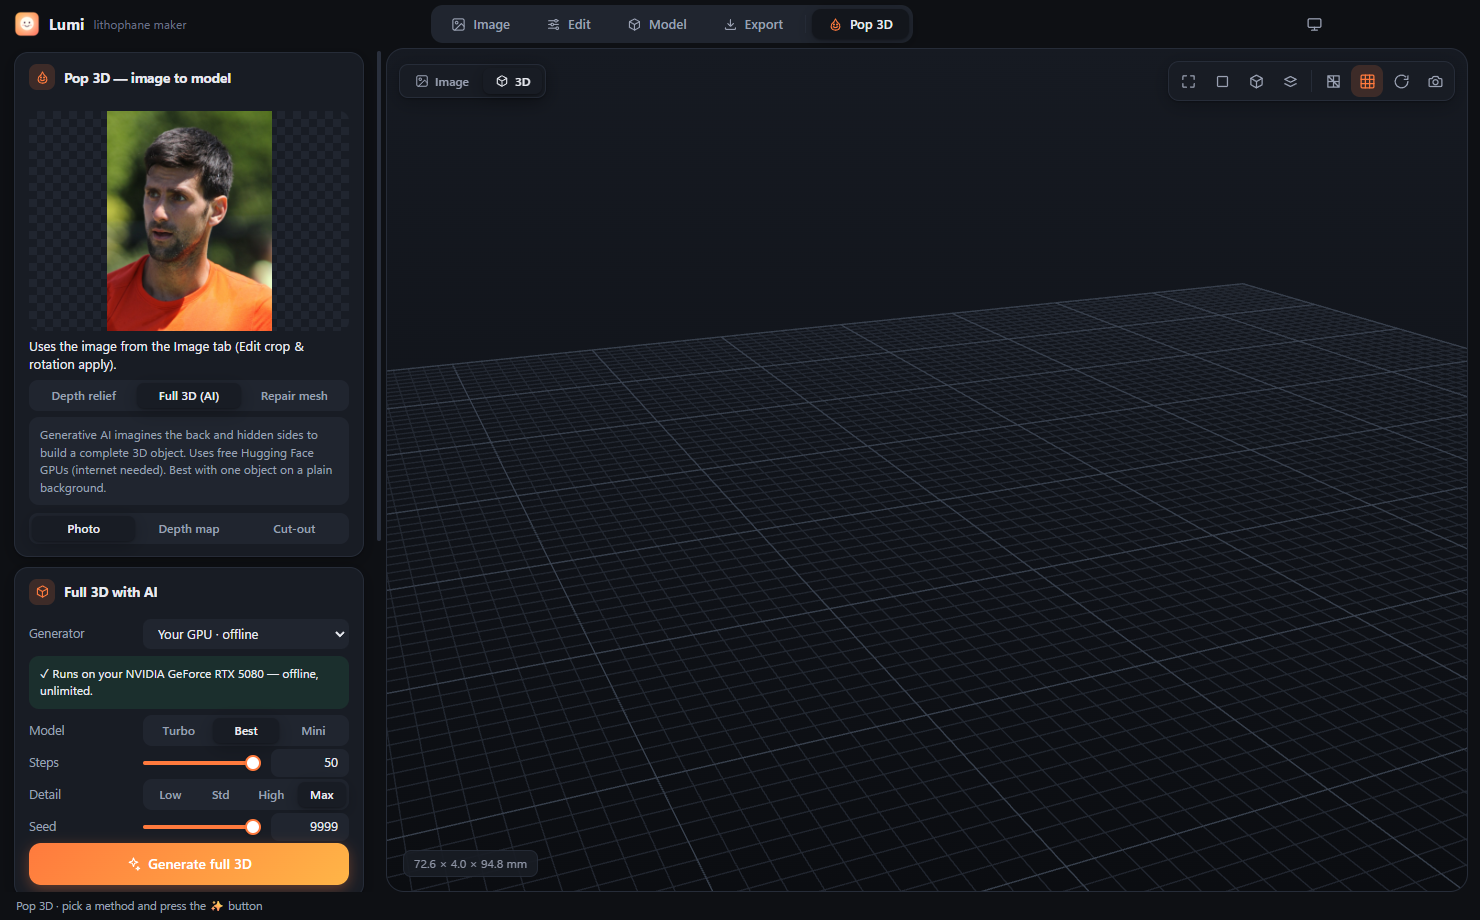
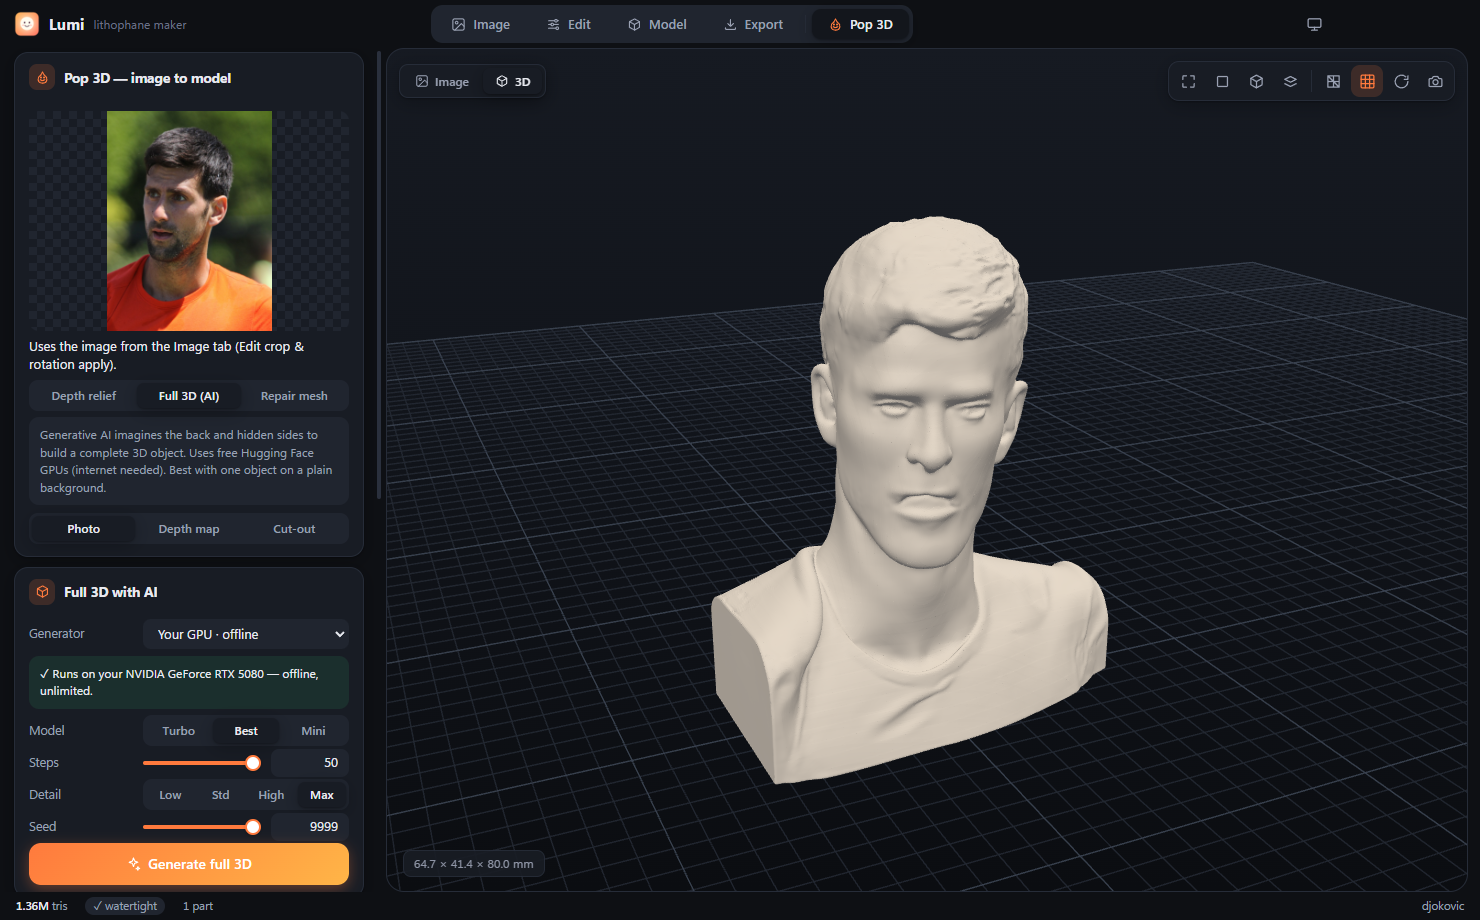
Add Windows downloads (v1.0.0 release), tabbed screenshot showcase, real Pop 3D screenshot

diff --git a/site/index.html b/site/index.html
@@ -49,6 +49,7 @@
         <a href="#make">Make one</a>
         <a href="#features">Features</a>
         <a href="#full3d">Full 3D</a>
+        <a href="#download">Download</a>
         <a href="#license">License</a>
       </div>
       <div class="nav-actions">
@@ -57,7 +58,7 @@
           <svg class="i-light" viewBox="0 0 24 24"><circle cx="12" cy="12" r="4.2"/><path d="M12 2.5v2.2M12 19.3v2.2M2.5 12h2.2M19.3 12h2.2M5.3 5.3l1.6 1.6M17.1 17.1l1.6 1.6M5.3 18.7l1.6-1.6M17.1 6.9l1.6-1.6"/></svg>
           <svg class="i-dark" viewBox="0 0 24 24"><path d="M20 14.5A8.5 8.5 0 019.5 4a8.5 8.5 0 1010.5 10.5z"/></svg>
         </button>
-        <a class="pill pill-sm" href="#make">Try it free</a>
+        <a class="pill pill-sm" href="#download">Download</a>
       </div>
     </div>
   </nav>
@@ -72,6 +73,24 @@
       <div class="hero-cta">
         <a class="pill" href="#make">Make a lithophane</a>
         <a class="more" href="#full3d">See full 3D <span aria-hidden="true">›</span></a>
+      </div>
+
+      <div class="dl" id="download">
+        <div class="dl-card">
+          <div class="dl-info">
+            <img src="assets/icon.png" alt="" width="44" height="44">
+            <div><b>Lumi for Windows</b><span>v1.0.0 · Windows 10 and 11, 64-bit · includes Pop 3D</span></div>
+          </div>
+          <div class="dl-btns">
+            <a class="pill dl-btn" href="https://github.com/chahatdeep/Lumi/releases/download/v1.0.0/Lumi-Setup-1.0.0.exe" data-asset="Lumi-Setup-1.0.0.exe">
+              <svg viewBox="0 0 24 24" aria-hidden="true"><path d="M12 4v11m0 0l-4.5-4.5M12 15l4.5-4.5M5 19.5h14"/></svg>Installer <small>.exe</small>
+            </a>
+            <a class="pill pill-ghost dl-btn" href="https://github.com/chahatdeep/Lumi/releases/download/v1.0.0/Lumi-1.0.0-portable.exe" data-asset="Lumi-1.0.0-portable.exe">
+              <svg viewBox="0 0 24 24" aria-hidden="true"><path d="M12 4v11m0 0l-4.5-4.5M12 15l4.5-4.5M5 19.5h14"/></svg>Portable <small>.exe</small>
+            </a>
+          </div>
+        </div>
+        <p class="fine dl-note">About 96 MB each. The portable version runs without installing. The app isn't code-signed yet, so if Windows SmartScreen appears, choose <b>More info → Run anyway</b>. <a href="https://github.com/chahatdeep/Lumi/releases/latest" target="_blank" rel="noopener">All releases</a></p>
       </div>
 
       <figure class="stage" id="litho">
@@ -213,18 +232,30 @@
         <h2 class="headline">Lumi for Windows.</h2>
         <p class="lede">Everything above, plus Pop 3D, depth reliefs and mesh repair, in a native desktop app.</p>
       </div>
-      <div class="rail" tabindex="0" aria-label="Screenshots">
-        <button class="shot" data-src="assets/screenshot-main.png"><img src="assets/screenshot-main.png" alt="Lumi main window with a lithophane preview" loading="lazy"><span>Image &amp; templates</span></button>
-        <button class="shot" data-src="assets/screenshot-model.png"><img src="assets/screenshot-model.png" alt="Lumi Model tab" loading="lazy"><span>Shape, thickness &amp; frame</span></button>
-        <button class="shot" data-src="assets/screenshot-export.png"><img src="assets/screenshot-export.png" alt="Lumi Export tab" loading="lazy"><span>Slicer-friendly export</span></button>
-        <button class="shot" data-src="assets/screenshot-pop.png"><img src="assets/screenshot-pop.png" alt="Lumi Pop 3D tab" loading="lazy"><span>Pop 3D</span></button>
+      <div class="wrap showcase">
+        <div class="seg" role="tablist" aria-label="Screenshots">
+          <button type="button" role="tab" aria-selected="true" data-i="0">Image</button>
+          <button type="button" role="tab" aria-selected="false" data-i="1">Model</button>
+          <button type="button" role="tab" aria-selected="false" data-i="2">Export</button>
+          <button type="button" role="tab" aria-selected="false" data-i="3">Pop 3D</button>
+        </div>
+        <figure class="show-frame" id="showFrame">
+          <img class="on" src="assets/screenshot-main.png" alt="Lumi main window with a lithophane preview" data-cap="Load a photo or pick a quick template." loading="lazy" width="1480" height="920">
+          <img class="" src="assets/screenshot-model.png" alt="Lumi Model tab with shape and thickness settings" data-cap="Shape, thickness, outline and frame." loading="lazy" width="1480" height="920">
+          <img class="" src="assets/screenshot-export.png" alt="Lumi Export tab with mesh optimization" data-cap="Optimized, slicer-friendly STL and 3MF." loading="lazy" width="1480" height="920">
+          <img class="" src="assets/screenshot-pop.png" alt="Lumi Pop 3D tab showing a generated 3D bust" data-cap="A full 3D model from one photo, on your GPU." loading="lazy" width="1480" height="920">
+        </figure>
+        <p class="show-cap" id="showCap">Load a photo or pick a quick template.</p>
       </div>
       <div class="wrap">
         <div class="build tile">
           <div>
             <h3>Build and run it.</h3>
             <p>Needs Windows 10 or 11, <a href="https://nodejs.org/" target="_blank" rel="noopener">Node.js 20+</a> and Git. An NVIDIA GPU is optional, for offline Pop 3D. <code>npm run dist</code> creates an installer and a portable <code>.exe</code>.</p>
-            <a class="more" href="https://github.com/chahatdeep/Lumi" target="_blank" rel="noopener">View on GitHub <span aria-hidden="true">›</span></a>
+            <div class="build-links">
+              <a class="pill pill-sm" href="#download">Download the .exe</a>
+              <a class="more" href="https://github.com/chahatdeep/Lumi" target="_blank" rel="noopener">View on GitHub <span aria-hidden="true">›</span></a>
+            </div>
           </div>
           <div class="code">
             <button class="copy" type="button" data-copy>Copy</button>

diff --git a/site/site.css b/site/site.css
@@ -75,6 +75,8 @@ p code { background: var(--bg-alt); padding: 1px 6px; border-radius: 6px; font-s
 .pill:hover { background: var(--pill-hover); text-decoration: none; }
 .pill-sm { min-height: 28px; padding: 0 12px; font-size: 12px; }
 .more { font-size: 17px; font-weight: 500; }
+.pill-ghost { background: transparent; color: var(--link); box-shadow: inset 0 0 0 1px var(--link); }
+.pill-ghost:hover { background: color-mix(in srgb, var(--link) 10%, transparent); }
 .more span { display: inline-block; transition: transform .2s; }
 .more:hover span { transform: translateX(3px); }
 
@@ -106,6 +108,20 @@ h1 { font-size: clamp(48px, 9vw, 96px); line-height: 1.05; font-weight: 700; let
 .hero-sub { font-size: clamp(19px, 2.4vw, 28px); line-height: 1.25; font-weight: 500; color: var(--text); max-width: 760px; margin: 18px auto 0; letter-spacing: -.02em; }
 .hero-cta { display: flex; justify-content: center; align-items: center; flex-wrap: wrap; gap: 14px 28px; margin-top: 30px; }
 
+/* download card */
+.dl { max-width: 760px; margin: 36px auto 0; }
+.dl-card { display: flex; align-items: center; justify-content: space-between; gap: 20px; flex-wrap: wrap; padding: 16px 16px 16px 20px; border-radius: 22px; background: var(--bg-alt); text-align: left; }
+.dl-info { display: flex; align-items: center; gap: 14px; }
+.dl-info img { width: 44px; height: 44px; }
+.dl-info b { display: block; font-size: 17px; font-weight: 600; }
+.dl-info span { display: block; font-size: 13px; color: var(--muted); }
+.dl-btns { display: flex; gap: 10px; flex-wrap: wrap; }
+.dl-btn { gap: 8px; min-height: 40px; padding: 0 18px; font-size: 15px; }
+.dl-btn small { font-size: 12px; opacity: .75; font-weight: 500; }
+.dl-btn svg { width: 17px; height: 17px; fill: none; stroke: currentColor; stroke-width: 2; stroke-linecap: round; stroke-linejoin: round; }
+.dl-note { margin-top: 10px; }
+.build-links { display: flex; align-items: center; gap: 20px; flex-wrap: wrap; margin-top: 18px; }
+.build-links .more { margin-top: 0 !important; }
 .stage { max-width: 1100px; margin: 56px auto 0; }
 .stage-img { position: relative; aspect-ratio: 4 / 3; border-radius: var(--radius); overflow: hidden; background: #201812; box-shadow: var(--shadow); }
 .stage-img img { position: absolute; inset: 0; width: 100%; height: 100%; object-fit: cover; }
@@ -171,13 +187,17 @@ input[type="range"] { flex: 1; accent-color: #ff9f0a; cursor: pointer; }
 .specs b { display: block; font-size: clamp(28px, 3.6vw, 40px); font-weight: 700; letter-spacing: -.03em; }
 .specs span { color: var(--muted); font-size: 15px; }
 
-/* desktop rail */
-.rail { display: flex; gap: 20px; overflow-x: auto; scroll-snap-type: x mandatory; padding: 56px max(22px, calc((100vw - var(--max)) / 2 + 22px)) 24px; scrollbar-width: none; }
-.rail::-webkit-scrollbar { display: none; }
-.shot { flex: 0 0 min(78vw, 620px); scroll-snap-align: center; padding: 0; border: 0; background: none; text-align: left; cursor: zoom-in; color: var(--muted); font: 500 15px/1.4 inherit; }
-.shot img { border-radius: 18px; box-shadow: var(--shadow); aspect-ratio: 1480 / 920; object-fit: cover; width: 100%; transition: transform .3s; }
-.shot:hover img { transform: scale(1.01); }
-.shot span { display: block; margin-top: 12px; }
+/* desktop showcase: one screenshot at a time, segmented control */
+.showcase { margin-top: 48px; text-align: center; }
+.seg { display: inline-flex; gap: 2px; padding: 3px; border-radius: 980px; background: var(--bg-alt); border: 1px solid var(--line); }
+.seg button { border: 0; background: transparent; color: var(--muted); font: 500 14px/1 inherit; letter-spacing: -.01em; padding: 9px 18px; border-radius: 980px; cursor: pointer; transition: background .2s, color .2s; }
+.seg button:hover { color: var(--text); }
+.seg button[aria-selected="true"] { background: var(--tile); color: var(--text); box-shadow: 0 1px 3px rgba(0, 0, 0, .12), 0 1px 1px rgba(0, 0, 0, .06); }
+:root[data-theme="dark"] .seg button[aria-selected="true"] { background: #3a3a3c; }
+.show-frame { position: relative; margin: 28px 0 0; aspect-ratio: 1480 / 920; border-radius: 18px; overflow: hidden; box-shadow: var(--shadow); background: #0e1014; cursor: zoom-in; }
+.show-frame img { position: absolute; inset: 0; width: 100%; height: 100%; object-fit: cover; opacity: 0; transition: opacity .5s ease; }
+.show-frame img.on { opacity: 1; }
+.show-cap { color: var(--muted); font-size: 15px; margin: 16px 0 0; min-height: 1.4em; }
 .build { display: grid; grid-template-columns: 1fr 1.15fr; gap: 36px; align-items: center; margin-top: 36px; }
 .build .more { display: inline-block; margin-top: 16px; }
 .code { position: relative; background: var(--code-bg); border-radius: 18px; }
@@ -220,6 +240,10 @@ input[type="range"] { flex: 1; accent-color: #ff9f0a; cursor: pointer; }
   .tips { grid-template-columns: 1fr 1fr; }
 }
 @media (max-width: 640px) {
+  .dl-card { justify-content: center; text-align: center; padding: 18px; }
+  .dl-info { flex-direction: column; gap: 8px; }
+  .dl-btns { width: 100%; }
+  .dl-btn { flex: 1; }
   .hero { padding-top: 48px; }
   .section { padding: 76px 0; }
   .stage { margin-top: 36px; }

diff --git a/site/site.js b/site/site.js
@@ -58,15 +58,35 @@ else {
 
 // ---------------------------------------------------------------- reveal on scroll
 const io = new IntersectionObserver((es) => es.forEach((e) => { if (e.isIntersecting) { e.target.classList.add('in'); io.unobserve(e.target); } }), { rootMargin: '0px 0px -10% 0px' });
-document.querySelectorAll('.headline, .lede, .tile, .steps li, .specs div, .shot, .tips div').forEach((n) => { n.classList.add('reveal'); io.observe(n); });
+document.querySelectorAll('.headline, .lede, .tile, .steps li, .specs div, .showcase, .tips div').forEach((n) => { n.classList.add('reveal'); io.observe(n); });
 
-// ---------------------------------------------------------------- screenshot lightbox
+// ---------------------------------------------------------------- desktop showcase + lightbox
+const tabs = [...document.querySelectorAll('.seg button')];
+const shots = [...document.querySelectorAll('#showFrame img')];
+const cap = document.getElementById('showCap');
+let cur = 0, auto = null;
+function show(i) {
+  cur = (i + shots.length) % shots.length;
+  shots.forEach((im, k) => im.classList.toggle('on', k === cur));
+  tabs.forEach((t, k) => t.setAttribute('aria-selected', String(k === cur)));
+  cap.textContent = shots[cur].dataset.cap;
+}
+const stopAuto = () => { clearInterval(auto); auto = null; };
+tabs.forEach((t, k) => t.addEventListener('click', () => { stopAuto(); show(k); }));
+document.querySelector('.seg').addEventListener('keydown', (e) => {
+  if (e.key === 'ArrowRight' || e.key === 'ArrowLeft') { stopAuto(); show(cur + (e.key === 'ArrowRight' ? 1 : -1)); tabs[cur].focus(); }
+});
+// gently cycle until the visitor picks one
+if (!matchMedia('(prefers-reduced-motion: reduce)').matches) {
+  new IntersectionObserver(([e], o) => { if (e.isIntersecting) { auto = setInterval(() => show(cur + 1), 4500); o.disconnect(); } }, { threshold: 0.5 }).observe(document.getElementById('showFrame'));
+}
 const lb = document.getElementById('lightbox');
-document.querySelectorAll('.shot').forEach((b) => b.addEventListener('click', () => {
-  lb.querySelector('img').src = b.dataset.src;
-  lb.querySelector('img').alt = b.querySelector('img').alt;
+document.getElementById('showFrame').addEventListener('click', () => {
+  stopAuto();
+  lb.querySelector('img').src = shots[cur].src;
+  lb.querySelector('img').alt = shots[cur].alt;
   lb.showModal();
-}));
+});
 lb.addEventListener('click', () => lb.close());
 
 // ---------------------------------------------------------------- copy build commands

diff --git a/README.md b/README.md
@@ -35,6 +35,15 @@ Lumi is a Windows desktop app (Electron + Three.js) that turns your photos into 
 |---|---|---|
 | ![Model tab](docs/screenshot-model.png) | ![Export tab](docs/screenshot-export.png) | ![Pop 3D tab](docs/screenshot-pop.png) |
 
+## Download (Windows)
+
+| | |
+|---|---|
+| **Installer** | [Lumi-Setup-1.0.0.exe](https://github.com/chahatdeep/Lumi/releases/download/v1.0.0/Lumi-Setup-1.0.0.exe). Choose where to install; it adds a Start menu shortcut. |
+| **Portable** | [Lumi-1.0.0-portable.exe](https://github.com/chahatdeep/Lumi/releases/download/v1.0.0/Lumi-1.0.0-portable.exe). A single file that runs without installing. |
+
+These run on Windows 10 and 11 (64-bit). All versions are on the [Releases](https://github.com/chahatdeep/Lumi/releases) page. The app isn't code-signed yet, so if Windows SmartScreen appears, choose **More info → Run anyway**.
+
 ## Requirements
 
 - Windows 10 or 11 (64-bit). The packaging targets Windows. The app itself is plain Electron and may run elsewhere in dev mode, but only Windows is tested.
